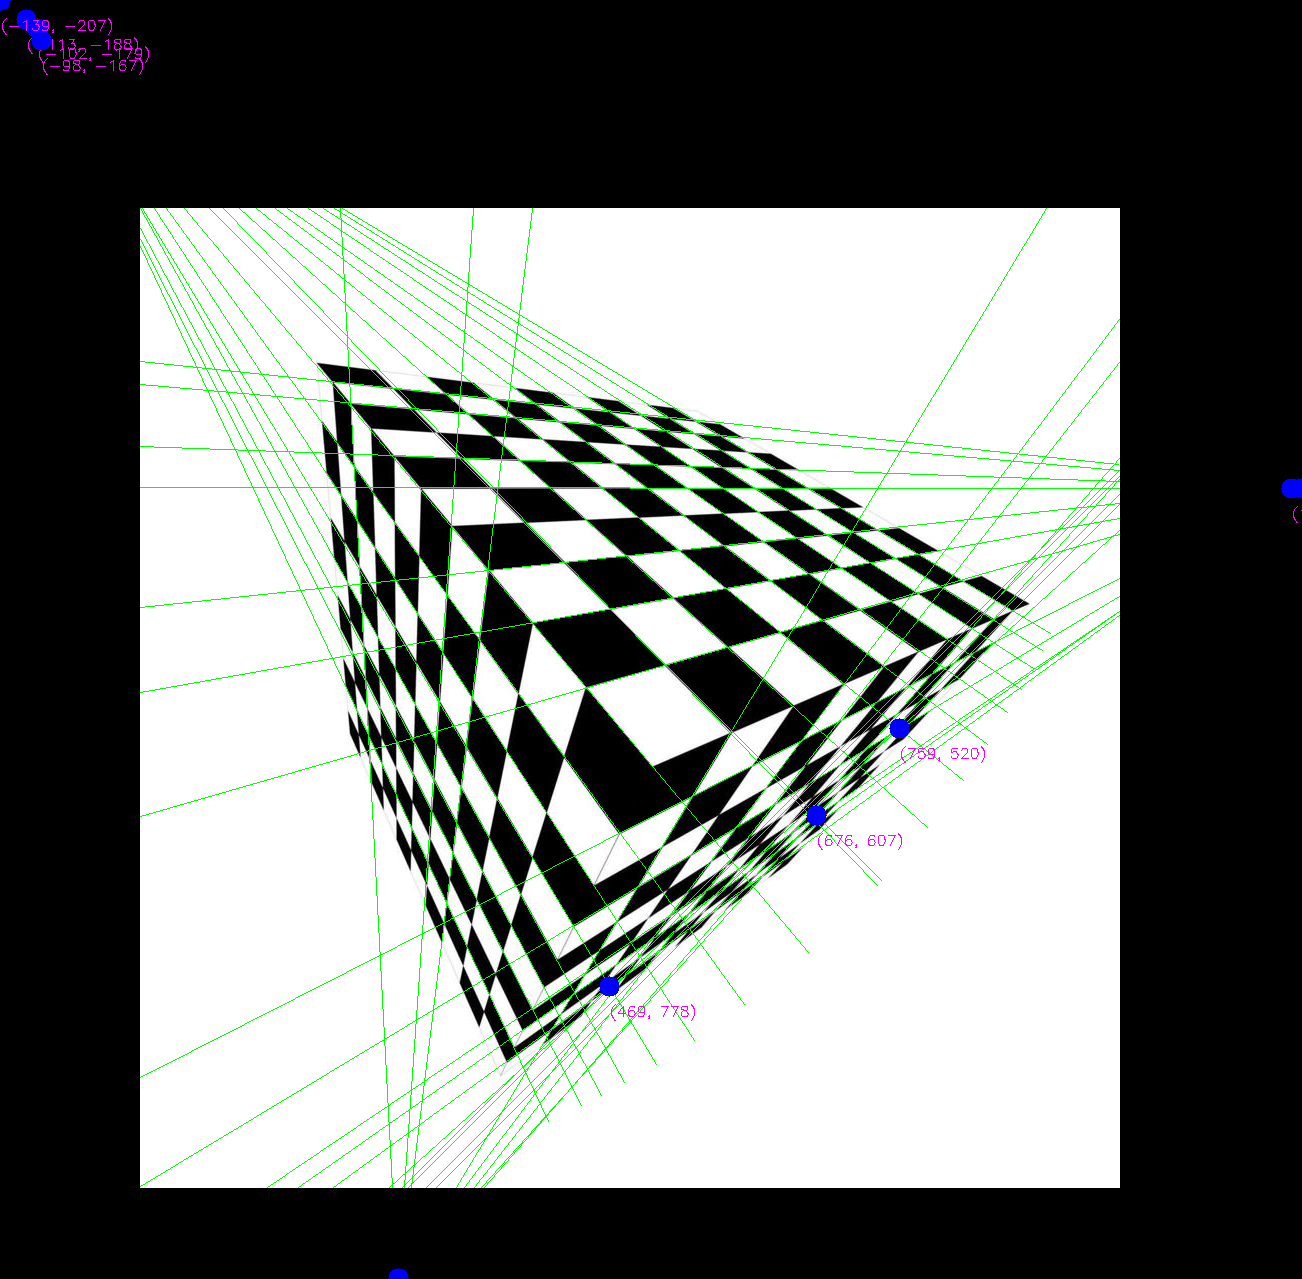
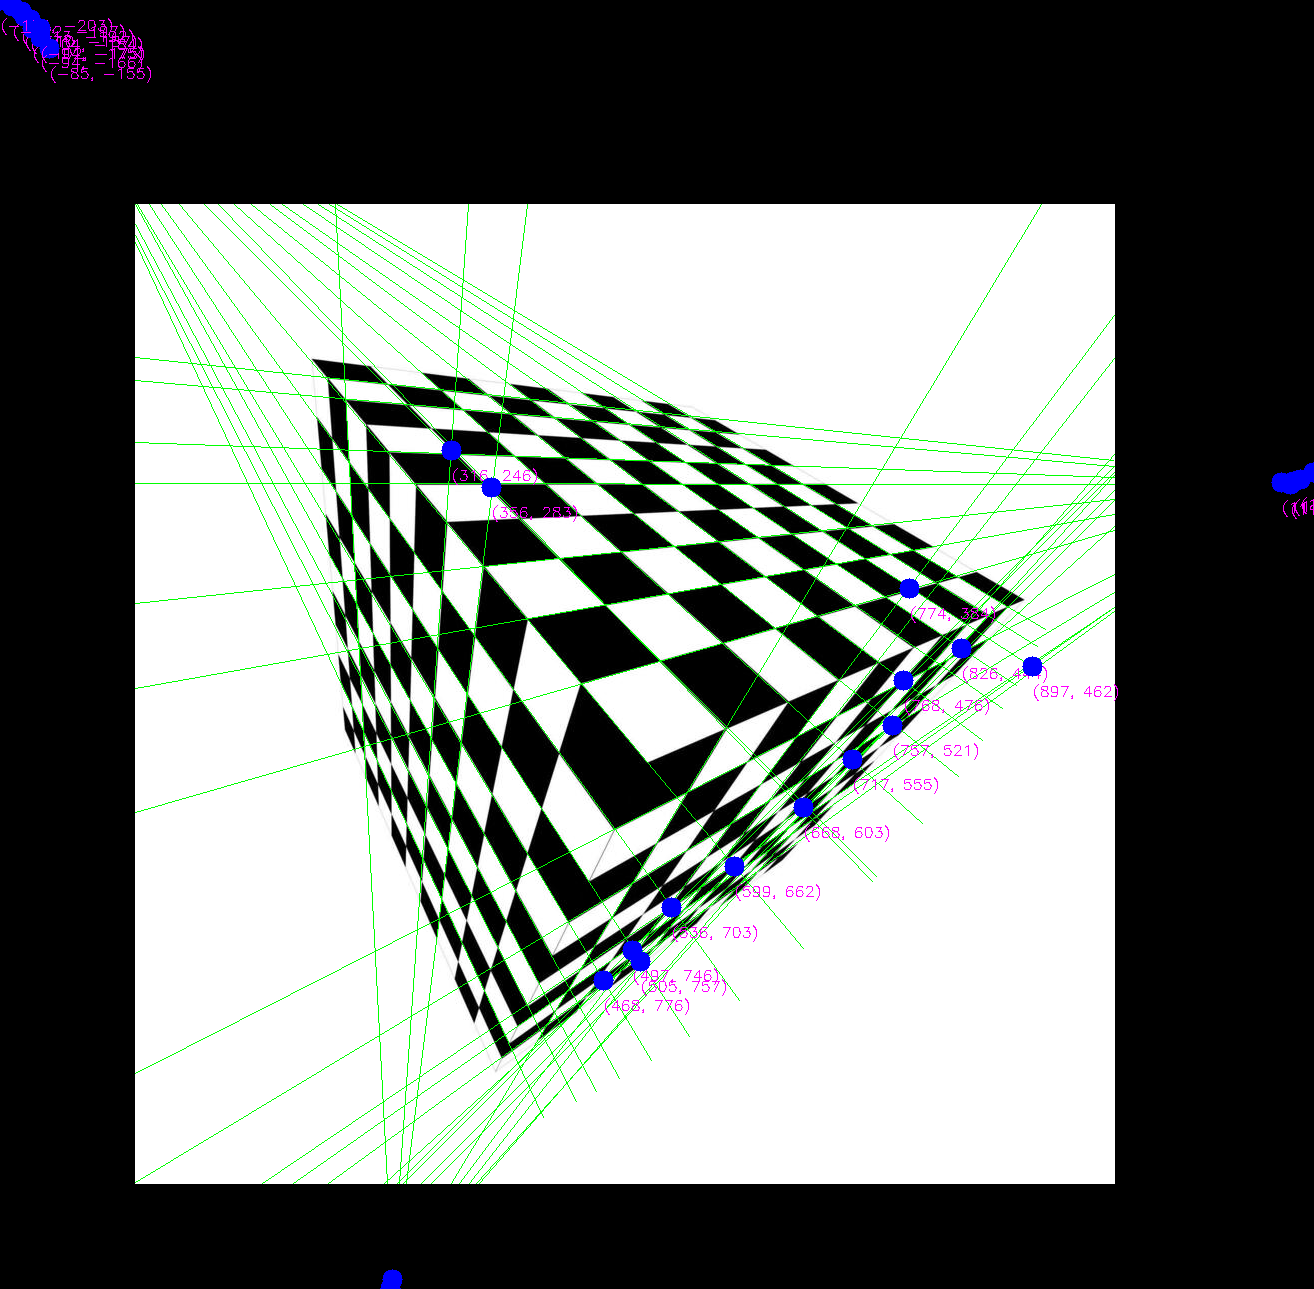
wow

diff --git a/hough-perspective/main.py b/hough-perspective/main.py
@@ -125,7 +125,6 @@ for x in x_bins:
             if (vote[0]-x)**2 + (vote[1]-y)**2 < (step_size/2)**2:
                 new_vote_vote_counts[-1] += 1
 
-print("binned votes")
 newer_votes = [] 
 for vote in new_votes:
     real_votes_this_vote = []
@@ -146,11 +145,14 @@ new_votes = np.array(new_votes)
 print(new_vote_vote_counts)
 order = np.argsort(new_vote_vote_counts)
 print(order)
-order = order.tolist()[::-1][:10]
+order = order.tolist()[::-1][:30]
 print("asdf")
 print(order)
 for o in order:
     print(new_votes[o], new_vote_vote_counts[o])
+
+
+# Begin ai-generated display code
 # Expand canvas to fit vanishing points
 vanishing_points = [new_votes[o] for o in order]
 vanishing_points = np.array(vanishing_points)
@@ -179,3 +181,23 @@ for pt in vanishing_points:
     cv2.putText(canvas, f"({int(pt[0])}, {int(pt[1])})", (x, y+30), cv2.FONT_HERSHEY_SIMPLEX, 0.5, (255, 0, 255), 1)
 
 save(canvas, "vanishing_points.png")
+
+# end ai-generated display code
+
+
+image_center = np.array([hough_vis.shape[1]/2, hough_vis.shape[0]/2])
+def get_angle(point):
+    direction = point - image_center
+    return np.atan2(direction[1], direction[0])
+
+top_point = vanishing_points[0]
+direction = get_angle(top_point)
+print("direction", direction / np.pi * 180)
+
+for vp in vanishing_points:
+    angle = get_angle(vp)
+    if abs(angle - direction) > np.pi / 2:
+        vp2 = vp
+        break
+print("vp2 angle", get_angle(vp2) / np.pi * 180)
+
